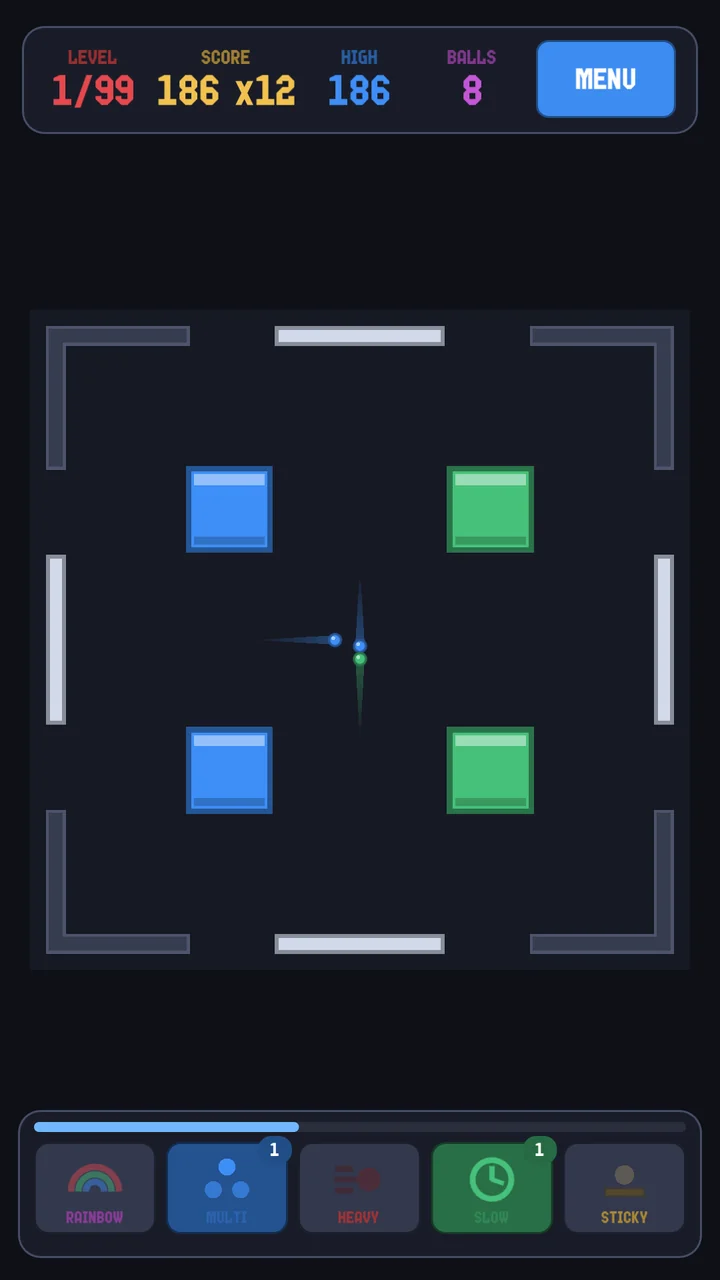
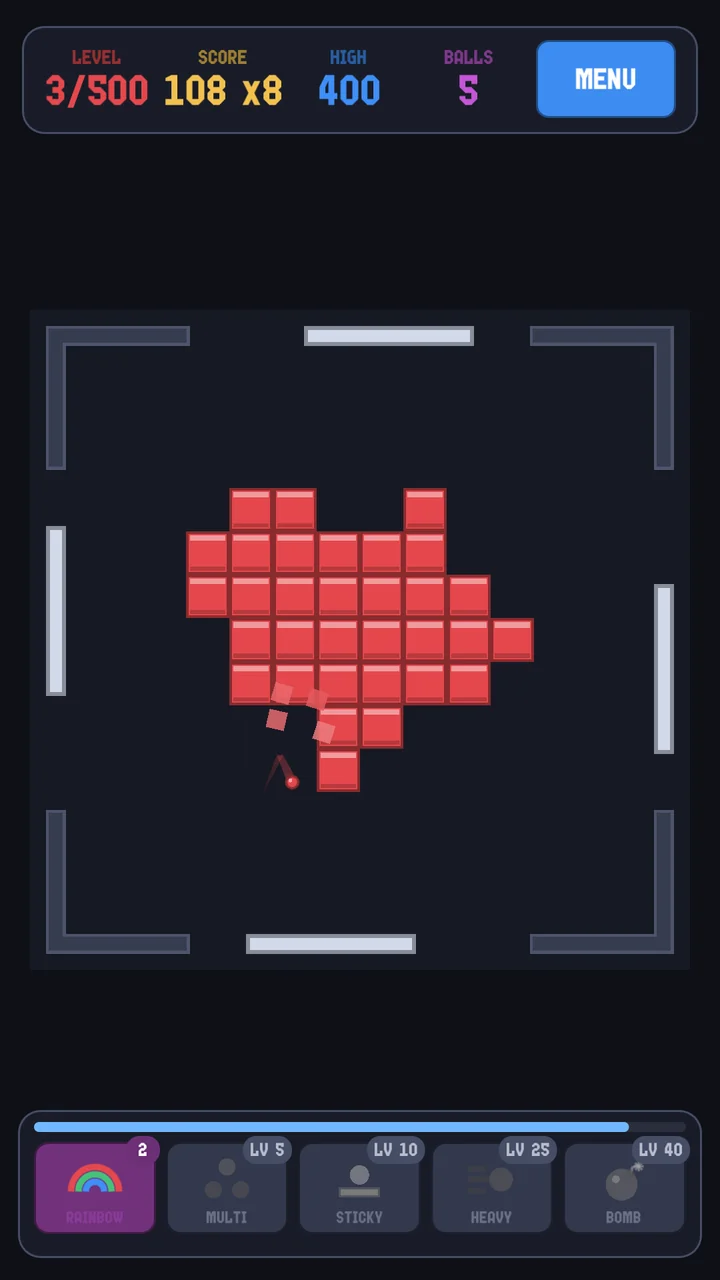
updated paddle ball listing

diff --git a/game.html b/game.html
@@ -43,13 +43,13 @@
                     </div>
                     <div class="project-body">
                         <div class="project-text">
-                            <p>This is a mobile game I have been building in Godot. Four paddles sit in a ring around the arena, and you drag anywhere on the screen to spin the whole ring at once. The ball comes at you in a color, and only bricks of that same color break, so everything else is a wall you have to work around. Every level is a picture drawn out of colored bricks instead of a random grid, and there are 99 of them so far. There are also five power ups you earn and spend: RAINBOW, MULTI, HEAVY, SLOW and STICKY. The game is free, with a banner ad during play and an optional ad you can watch for extra power ups. Progress is saved on the device. It is in a closed test on Google Play right now, so the source is not public yet. <a target="_blank" rel="noopener noreferrer" href="https://groups.google.com/g/paddle-ball-testers">Click here</a> to join the test.</p>
+                            <p>This is a mobile game I have been building in Godot. Four paddles sit in a ring around the arena, and you drag anywhere on the screen to spin the whole ring at once. The ball comes at you in a color, and only bricks of that same color break, so everything else is a wall you have to work around. Every level is a picture drawn out of colored bricks instead of a random grid, and there are 500 of them, plus a daily challenge to come back to. There are also five power ups you earn and spend: RAINBOW, MULTI, STICKY, HEAVY and BOMB. The game is free, with banner ads and rewarded ads. Progress is saved on the device. It is almost ready for release and is in a closed test on Google Play right now. <a target="_blank" rel="noopener noreferrer" href="https://groups.google.com/g/paddle-ball-testers">Click here</a> to join the test.</p>
                         </div>
                         <div class="project-media">
-                            <a class="media-item" href="images/paddleball1.webp" target="_blank" rel="noopener noreferrer"><img src="images/paddleball1.webp" alt="Paddle Ball gameplay with the paddle ring around a block of colored bricks" loading="lazy"></a>
-                            <a class="media-item" href="images/paddleball2.webp" target="_blank" rel="noopener noreferrer"><img src="images/paddleball2.webp" alt="The MULTI and SLOW power ups active during a level" loading="lazy"></a>
-                            <a class="media-item" href="images/paddleball3.webp" target="_blank" rel="noopener noreferrer"><img src="images/paddleball3.webp" alt="Two balls moving toward opposite sides of the paddle ring" loading="lazy"></a>
-                            <a class="media-item" href="images/paddleball4.webp" target="_blank" rel="noopener noreferrer"><img src="images/paddleball4.webp" alt="The level clear screen showing a new high score" loading="lazy"></a>
+                            <a class="media-item" href="images/paddleball1.webp" target="_blank" rel="noopener noreferrer"><img src="images/paddleball1.webp" alt="Level 167 of 500, a rainbow heart drawn in colored bricks inside the paddle ring" loading="lazy"></a>
+                            <a class="media-item" href="images/paddleball2.webp" target="_blank" rel="noopener noreferrer"><img src="images/paddleball2.webp" alt="Level 3, an early level with the later power ups still locked" loading="lazy"></a>
+                            <a class="media-item" href="images/paddleball3.webp" target="_blank" rel="noopener noreferrer"><img src="images/paddleball3.webp" alt="The daily challenge, with an inner ring of walls around the bricks" loading="lazy"></a>
+                            <a class="media-item" href="images/paddleball4.webp" target="_blank" rel="noopener noreferrer"><img src="images/paddleball4.webp" alt="Level 36 with the RAINBOW power up active on the ball" loading="lazy"></a>
                         </div>
                     </div>
                 </article>

diff --git a/index.html b/index.html
@@ -80,10 +80,10 @@
                     <a class="thumb" href="program.html"><img src="images/programscreen2.webp" alt="Adding a task in the to-do list app" loading="lazy"></a>
                     <a class="thumb" href="program.html"><img src="images/programscreen3.webp" alt="Editing a task in the to-do list app" loading="lazy"></a>
                     <a class="thumb" href="program.html"><img src="images/programcode1.webp" alt="Java source code for the to-do list app" loading="lazy"></a>
-                    <a class="thumb" href="game.html"><img src="images/paddleball1.webp" alt="Paddle Ball gameplay with the paddle ring around a block of colored bricks" loading="lazy"></a>
-                    <a class="thumb" href="game.html"><img src="images/paddleball2.webp" alt="The MULTI and SLOW power ups active during a level" loading="lazy"></a>
-                    <a class="thumb" href="game.html"><img src="images/paddleball3.webp" alt="Two balls moving toward opposite sides of the paddle ring" loading="lazy"></a>
-                    <a class="thumb" href="game.html"><img src="images/paddleball4.webp" alt="The level clear screen showing a new high score" loading="lazy"></a>
+                    <a class="thumb" href="game.html"><img src="images/paddleball1.webp" alt="Level 167 of 500, a rainbow heart drawn in colored bricks inside the paddle ring" loading="lazy"></a>
+                    <a class="thumb" href="game.html"><img src="images/paddleball2.webp" alt="Level 3, an early level with the later power ups still locked" loading="lazy"></a>
+                    <a class="thumb" href="game.html"><img src="images/paddleball3.webp" alt="The daily challenge, with an inner ring of walls around the bricks" loading="lazy"></a>
+                    <a class="thumb" href="game.html"><img src="images/paddleball4.webp" alt="Level 36 with the RAINBOW power up active on the ball" loading="lazy"></a>
                     <a class="thumb" href="game.html"><img src="images/gamecode1.webp" alt="Unreal Blueprint graph from GrowOpSim" loading="lazy"></a>
                     <a class="thumb" href="game.html"><img src="images/gamescreen1.webp" alt="Gameplay screenshot from GrowOpSim" loading="lazy"></a>
                     <a class="thumb" href="game.html"><img src="images/gamecode2.webp" alt="Another Unreal Blueprint graph from GrowOpSim" loading="lazy"></a>

diff --git a/src/data/projects.js b/src/data/projects.js
@@ -110,16 +110,16 @@ module.exports = [
       `and you drag anywhere on the screen to spin the whole ring at once. The ball comes at you in a ` +
       `color, and only bricks of that same color break, so everything else is a wall you have to work ` +
       `around. Every level is a picture drawn out of colored bricks instead of a random grid, and there ` +
-      `are 99 of them so far. There are also five power ups you earn and spend: RAINBOW, MULTI, HEAVY, ` +
-      `SLOW and STICKY. The game is free, with a banner ad during play and an optional ad you can watch ` +
-      `for extra power ups. Progress is saved on the device. It is in a closed test on Google Play right ` +
-      `now, so the source is not public yet. ` +
+      `are 500 of them, plus a daily challenge to come back to. There are also five power ups you earn ` +
+      `and spend: RAINBOW, MULTI, STICKY, HEAVY and BOMB. The game is free, with banner ads and rewarded ` +
+      `ads. Progress is saved on the device. It is almost ` +
+      `ready for release and is in a closed test on Google Play right now. ` +
       `${LINK('https://groups.google.com/g/paddle-ball-testers', 'Click here')} to join the test.`,
     media: [
-      { type: 'image', src: 'images/paddleball1.webp', alt: 'Paddle Ball gameplay with the paddle ring around a block of colored bricks' },
-      { type: 'image', src: 'images/paddleball2.webp', alt: 'The MULTI and SLOW power ups active during a level' },
-      { type: 'image', src: 'images/paddleball3.webp', alt: 'Two balls moving toward opposite sides of the paddle ring' },
-      { type: 'image', src: 'images/paddleball4.webp', alt: 'The level clear screen showing a new high score' },
+      { type: 'image', src: 'images/paddleball1.webp', alt: 'Level 167 of 500, a rainbow heart drawn in colored bricks inside the paddle ring' },
+      { type: 'image', src: 'images/paddleball2.webp', alt: 'Level 3, an early level with the later power ups still locked' },
+      { type: 'image', src: 'images/paddleball3.webp', alt: 'The daily challenge, with an inner ring of walls around the bricks' },
+      { type: 'image', src: 'images/paddleball4.webp', alt: 'Level 36 with the RAINBOW power up active on the ball' },
     ],
   },
   {
